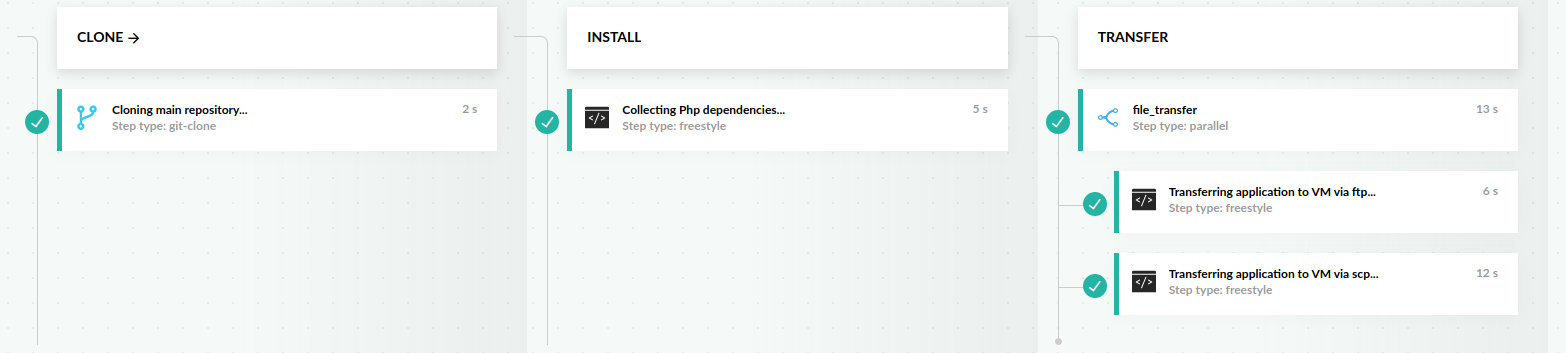
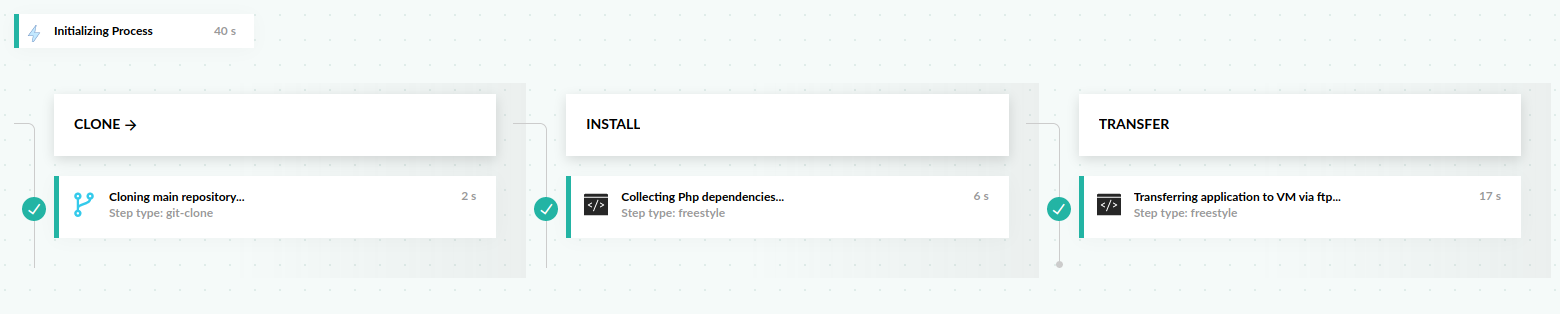
Modifying FTP example

diff --git a/_docs/yaml-examples/examples/transferring-php-ftp.md b/_docs/yaml-examples/examples/transferring-php-ftp.md
@@ -85,7 +85,7 @@ steps:
         - HOST=<HOST>
         - PUB_FTP_DIR=<PATH/TO/DIR>
       commands:
-        - lftp -u $USER,$PASSWORD -e "cd $PUB_FTP_DIR; mkdir php-composer-sample-app; cd php-composer-sample-app; mput "*.*"; bye" $HOST
+        - lftp -e "set ftp:use-site-utime2 false; mirror -x ^\.git/$ -X flat-logo.png -p -R php-composer-sample-app $PUB_FTP_DIR/php-composer-sample-app; exit" -u $USER,$PASSWORD $HOST
     stage: "transfer"
 ```
 This pipeline does the following:
